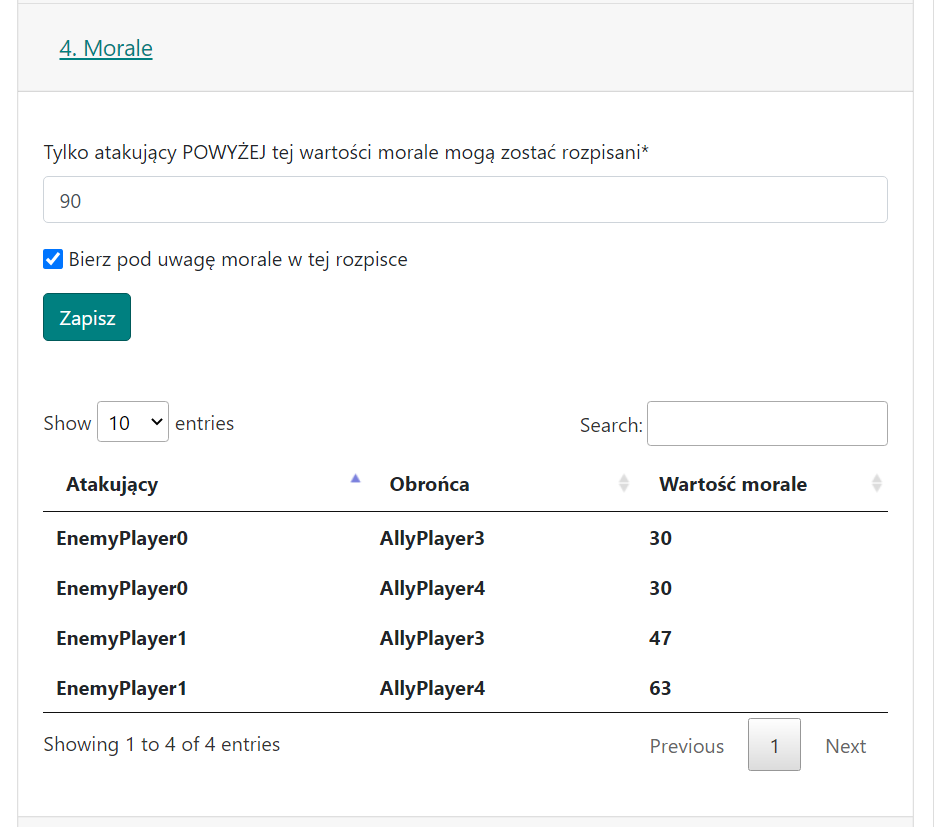
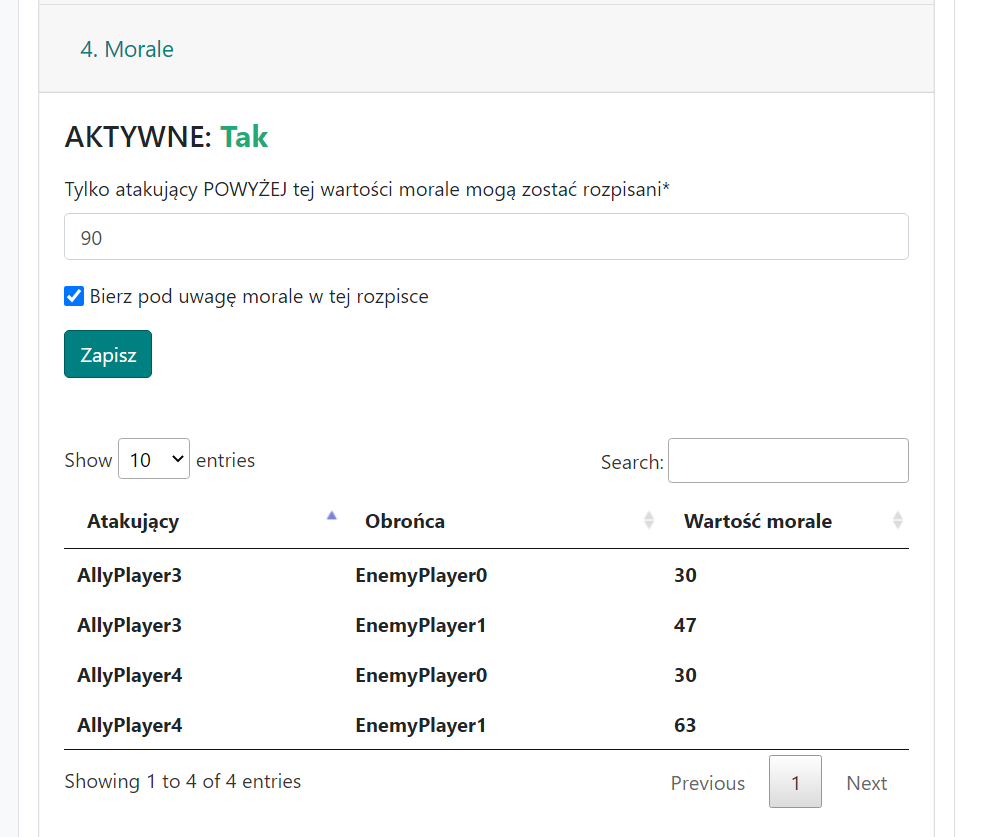
change default morale_on value to False, add option to profile to change it, small fix in docs and html pages, added new tests also for outline_complete with morale

diff --git a/base/templates/base/new_outline/new_outline_initial_period1.html b/base/templates/base/new_outline/new_outline_initial_period1.html
@@ -303,6 +303,11 @@
         <div id="collapseFour" class="collapse" aria-labelledby="headingFour" data-parent="#accordionExample">
           <div class="card-body">
             <div class="mb-3">
+              {% if instance.morale_on %}
+              <h4>{% trans 'ACTIVE: ' %} <span class="md-correct2"> {%trans 'True' %}</span></h4>
+              {% else %}
+              <h4>{% trans 'ACTIVE: ' %} <span class="md-error">{% trans 'False' %}</span></h4>
+              {% endif %}
               {% if instance.world.morale == 0 %}
               <div class="p-3 mb-2 bg-light text-dark"><i class="bi bi-info-square"></i>&nbsp;<b>{{instance.world}}</b>&nbsp;<span class="md-error">{% trans 'has no morale turned off and thus it is pointless to use this option.' %}</span></div>
               {% elif instance.world.morale == 2 %}

diff --git a/base/templates/base/user/profile_settings.html b/base/templates/base/user/profile_settings.html
@@ -54,7 +54,7 @@
         {% csrf_token %}
         {{form1|crispy}}
         <button class="btn btn-ocean" onclick="this.disabled=true;this.form.submit();">
-            {% trans 'Set server' %}
+            {% trans 'Save' %}
         </button>
     </form>
 

diff --git a/base/tests/test_views/outline_initial_views/test_initial_form.py b/base/tests/test_views/outline_initial_views/test_initial_form.py
@@ -169,9 +169,13 @@ class InitialForm(MiniSetup):
         initial_outline_off_left_catapult = 200
         initial_outline_catapult_default = 300
         initial_outline_average_ruining_points = "medium"
-
+        # form7
+        morale_on_targets_greater_than = 85
+        morale_on = True
         # outline
         outline = self.get_outline(test_world=True)
+        outline.morale_on_targets_greater_than = morale_on_targets_greater_than
+        outline.morale_on = morale_on
         outline.off_troops = "102|102,100,100,7002,0,100,2802,0,0,350,100,0,0,0,0,0,"
         outline.initial_outline_targets = initial_outline_targets
         outline.initial_outline_fakes = initial_outline_fakes
@@ -208,6 +212,7 @@ class InitialForm(MiniSetup):
         form4: forms.ModeOutlineForm = response.context["form4"]
         form5: forms.NightBonusSetForm = response.context["form5"]
         form6: forms.RuiningOutlineForm = response.context["form6"]
+        form7: forms.MoraleOutlineForm = response.context["form7"]
         assert form1["target"].initial == initial_outline_targets
 
         assert form2["initial_outline_front_dist"].initial == initial_outline_front_dist
@@ -250,6 +255,11 @@ class InitialForm(MiniSetup):
             form6["initial_outline_average_ruining_points"].initial
             == initial_outline_average_ruining_points
         )
+        assert (
+            form7["morale_on_targets_greater_than"].initial
+            == morale_on_targets_greater_than
+        )
+        assert form7["morale_on"].initial == morale_on
 
         response = self.client.get(PATH + "?t=fake")
         assert response.status_code == 200
@@ -290,9 +300,13 @@ class InitialForm(MiniSetup):
         initial_outline_off_left_catapult = 75
         initial_outline_catapult_default = 99
         initial_outline_average_ruining_points = "big"
-
+        # form7
+        morale_on_targets_greater_than = 75
+        morale_on = False
         # outline
         outline = self.get_outline(test_world=True)
+        outline.morale_on_targets_greater_than = morale_on_targets_greater_than
+        outline.morale_on = morale_on
         outline.off_troops = "102|102,100,100,7002,0,100,2802,0,0,350,100,0,0,0,0,0,"
         outline.initial_outline_targets = initial_outline_targets
         outline.initial_outline_fakes = initial_outline_fakes
@@ -329,6 +343,7 @@ class InitialForm(MiniSetup):
         form4: forms.ModeOutlineForm = response.context["form4"]
         form5: forms.NightBonusSetForm = response.context["form5"]
         form6: forms.RuiningOutlineForm = response.context["form6"]
+        form7: forms.MoraleOutlineForm = response.context["form7"]
         assert form1["target"].initial == initial_outline_targets
 
         assert form2["initial_outline_front_dist"].initial == initial_outline_front_dist
@@ -371,6 +386,11 @@ class InitialForm(MiniSetup):
             form6["initial_outline_average_ruining_points"].initial
             == initial_outline_average_ruining_points
         )
+        assert (
+            form7["morale_on_targets_greater_than"].initial
+            == morale_on_targets_greater_than
+        )
+        assert form7["morale_on"].initial == morale_on
 
         response = self.client.get(PATH + "?t=fake")
         assert response.status_code == 200
@@ -673,3 +693,31 @@ class InitialForm(MiniSetup):
             outline.initial_outline_average_ruining_points
             == initial_outline_average_ruining_points
         )
+
+    def test_planer_initial_form___200_test_form7(self):
+        outline = self.get_outline(test_world=True)
+        outline.off_troops = "102|102,100,100,7002,0,100,2802,0,0,350,100,0,0,0,0,0,"
+        outline.morale_on_targets_greater_than = 50
+        outline.morale_on = True
+        outline.save()
+        self.create_target_on_test_world(outline)
+
+        PATH = reverse("base:planer_initial_form", args=[outline.pk])
+        self.login_me()
+
+        morale_on_targets_greater_than = 90
+        morale_on = False
+
+        response = self.client.post(
+            PATH,
+            data={
+                "form7": "",
+                "morale_on_targets_greater_than": morale_on_targets_greater_than,
+                "morale_on": morale_on,
+            },
+        )
+        assert response.status_code == 302
+        assert response.url == PATH + "?t=real"
+        outline.refresh_from_db()
+        assert outline.morale_on == morale_on
+        assert outline.morale_on_targets_greater_than == morale_on_targets_greater_than

diff --git a/utils/tests/test_outline_complete.py b/utils/tests/test_outline_complete.py
@@ -22,6 +22,7 @@ from django.utils.translation import activate
 from base.models import Outline
 from base.models import TargetVertex as Target
 from base.models import WeightMaximum, WeightModel
+from base.models.player import Player
 from base.models.result import Result
 from base.tests.test_utils.initial_setup import create_initial_data_write_outline
 from utils.avaiable_troops import get_legal_coords_outline
@@ -1024,3 +1025,27 @@ class TestOutlineCreateTargets(TestCase):
             complete_outline_write(self.outline, salt="test_outline_complete")
             assert len(self.weights()) == 2
             self.outline.remove_user_outline()
+
+    def test_morale_on_leads_to_skip_all_villages_for_low_morale_value(
+        self,
+    ):
+        self.outline.initial_outline_min_off = 0
+        self.outline.initial_outline_max_off = 28000
+        self.outline.morale_on = True
+        self.outline.morale_on_targets_greater_than = 95
+        self.outline.save()
+
+        ally_player: Player = Player.objects.get(name="player0")
+        enemy_player: Player = Player.objects.get(name="player1")
+        ally_player.points = 1200
+        enemy_player.points = 250  # morale 93%
+        ally_player.save()
+        enemy_player.save()
+
+        target = self.target()
+        target.exact_off = [10, 0, 0, 0]
+        target.exact_noble = [10, 0, 0, 0]
+        target.save()
+        complete_outline_write(self.outline, salt=self.salt)
+        created = self.weights()
+        assert len(created) == 0

diff --git a/base/tests/test_views/profile/test_profile_setting.py b/base/tests/test_views/profile/test_profile_setting.py
@@ -46,7 +46,9 @@ class OutlineProfileSettings(MiniSetup):
         PATH = reverse("base:settings")
 
         self.login_me()
-        response = self.client.post(PATH, data={"server": "xaxaxa", "form1": ""})
+        response = self.client.post(
+            PATH, data={"server": "xaxaxa", "form1": "", "default_morale_on": True}
+        )
         assert response.status_code == 200
         form1: ChangeServerForm = response.context["form1"]
         assert len(form1.errors) == 1
@@ -58,13 +60,18 @@ class OutlineProfileSettings(MiniSetup):
 
         me = self.me()
         profile: Profile = Profile.objects.get(user=me)
+        profile.default_morale_on = True
         profile.server = None
         profile.save()
 
         self.login_me()
-        response = self.client.post(PATH, data={"server": "nottestserver", "form1": ""})
+        response = self.client.post(
+            PATH,
+            data={"server": "nottestserver", "default_morale_on": False, "form1": ""},
+        )
         assert response.status_code == 302
         assert response.url == PATH
 
         profile.refresh_from_db()
-        assert profile.server is not None
+        assert profile.server.dns == "nottestserver"  # type: ignore
+        assert not profile.default_morale_on

diff --git a/utils/basic/morale.py b/utils/basic/morale.py
@@ -43,18 +43,17 @@ def generate_morale_dict(outline: Outline) -> defaultdict[tuple[str, str], int]:
     ):
         dict_player_to_points[player.name] = player.points
     for target_player in unique_target_players:
-        target_player_morale = dict_player_to_points[target_player]
+        target_player_points = dict_player_to_points[target_player]
         for weight_player in unique_weight_max_players:
-            weight_player_morale = dict_player_to_points[weight_player]
-            if weight_player_morale == 0:
+            weight_player_points = dict_player_to_points[weight_player]
+            if weight_player_points == 0:
                 continue
             morale = round(
-                ((3 * target_player_morale / weight_player_morale) + 0.3) * 100
+                ((3 * target_player_points / weight_player_points) + 0.3) * 100
             )
             if morale >= 100:
                 continue
             elif morale < 25:
                 morale = 25
             dict_player_tuple_to_morale[(target_player, weight_player)] = morale
-
     return dict_player_tuple_to_morale

diff --git a/base/views/profile.py b/base/views/profile.py
@@ -49,13 +49,12 @@ def profile_settings(request: HttpRequest) -> HttpResponse:
     form1 = forms.ChangeServerForm(None)
     if request.method == "POST":
         if "form1" in request.POST:
-            form1 = forms.ChangeServerForm(request.POST)
+            profile: Profile = Profile.objects.get(user=user)
+            form1 = forms.ChangeServerForm(request.POST, instance=profile)
             if form1.is_valid():
-                new_server = request.POST.get("server")
-                new_server = get_object_or_404(Server, dns=new_server)
-                profile: Profile = Profile.objects.get(user=user)
-                profile.server = new_server
-                profile.save()
+                updated_profile: Profile = form1.save(commit=False)
+                get_object_or_404(Server, dns=updated_profile.server)
+                updated_profile.save()
                 return redirect("base:settings")
     context = {"user": user, "form1": form1}
     return render(request, "base/user/profile_settings.html", context=context)

diff --git a/base/tests/test_views/outline_create/test_new_outline_create.py b/base/tests/test_views/outline_create/test_new_outline_create.py
@@ -63,7 +63,8 @@ class NewOutlineCreate(MiniSetup):
 
     def test_planer_create___200_auth_form_create_outline_and_redirect(self):
         PATH = reverse("base:planer_create")
-
+        profile: Profile = Profile.objects.get(user=self.me())
+        profile.default_morale_on = True
         world = self.get_world()
 
         self.login_me()
@@ -88,6 +89,7 @@ class NewOutlineCreate(MiniSetup):
         assert response.url == REDIRECT
         assert outline.name == "name"
         assert outline.date == datetime.date.today()
+        assert outline.morale_on
         assert outline.world == world
         assert outline.owner == self.me()
 
@@ -109,8 +111,7 @@ class NewOutlineCreate(MiniSetup):
         PATH = reverse("base:planer_create")
 
         world = self.get_world()
-        me = self.me()
-        profile: Profile = Profile.objects.get(user=me)
+        profile: Profile = Profile.objects.get(user=self.me())
         profile.server = None
         profile.save()
         self.login_me()

diff --git a/base/views/outline_create.py b/base/views/outline_create.py
@@ -20,12 +20,13 @@ from django.shortcuts import get_object_or_404, redirect, render
 from django.views.decorators.http import require_POST
 
 from base import forms, models
+from base.models.profile import Profile
 
 
 @login_required
 def new_outline_create(request: HttpRequest) -> HttpResponse:
     """creates new user's outline login required"""
-    profile = models.Profile.objects.select_related().get(user=request.user)
+    profile: Profile = models.Profile.objects.select_related().get(user=request.user)
     form1 = forms.OutlineForm(None)
     form2 = forms.ChangeServerForm(None)
 
@@ -52,6 +53,7 @@ def new_outline_create(request: HttpRequest) -> HttpResponse:
                     date=request.POST["date"],
                     name=request.POST["name"],
                     world=world_instance,
+                    morale_on=profile.default_morale_on,
                 )
                 new_instance.save()
                 new_instance.refresh_from_db()

diff --git a/base/models/outline.py b/base/models/outline.py
@@ -15,7 +15,6 @@
 
 import datetime
 
-from django.utils import timezone
 from django.contrib.auth.models import User
 from django.contrib.postgres.fields import ArrayField
 from django.core.paginator import Paginator
@@ -23,6 +22,7 @@ from django.core.validators import MaxValueValidator, MinValueValidator
 from django.db import models
 from django.db.models import Count, F, Q, Sum
 from django.db.models.query import QuerySet
+from django.utils import timezone
 from django.utils.translation import gettext_lazy
 
 
@@ -242,7 +242,7 @@ class Outline(models.Model):
     morale_on_targets_greater_than = models.IntegerField(
         default=100, validators=[MinValueValidator(25), MaxValueValidator(100)]
     )
-    morale_on = models.BooleanField(default=True)
+    morale_on = models.BooleanField(default=False)
     filter_targets_number = models.IntegerField(
         default=12,
         validators=[MinValueValidator(1), MaxValueValidator(50)],

diff --git a/base/migrations/0037_profile_default_morale_on.py b/base/migrations/0037_profile_default_morale_on.py
@@ -1,4 +1,4 @@
-# Generated by Django 4.0.2 on 2022-02-17 22:16
+# Generated by Django 4.0.2 on 2022-02-27 20:03
 
 from django.db import migrations, models
 
@@ -6,13 +6,13 @@ from django.db import migrations, models
 class Migration(migrations.Migration):
 
     dependencies = [
-        ("base", "0034_outline_morale_on_targets_greater_than_and_more"),
+        ("base", "0036_world_morale"),
     ]
 
     operations = [
         migrations.AddField(
-            model_name="outline",
-            name="morale_on",
+            model_name="profile",
+            name="default_morale_on",
             field=models.BooleanField(default=False),
         ),
     ]

diff --git a/base/forms.py b/base/forms.py
@@ -836,5 +836,10 @@ class AddNewWorldForm(forms.ModelForm):
 class ChangeServerForm(forms.ModelForm):
     class Meta:
         model = models.Profile
-        fields = ["server"]
-        labels = {"server": gettext_lazy("Please select your server:")}
+        fields = ["server", "default_morale_on"]
+        labels = {
+            "server": gettext_lazy("Please select your server:"),
+            "default_morale_on": gettext_lazy(
+                "Turn on morale calculations in every outline by default:"
+            ),
+        }
